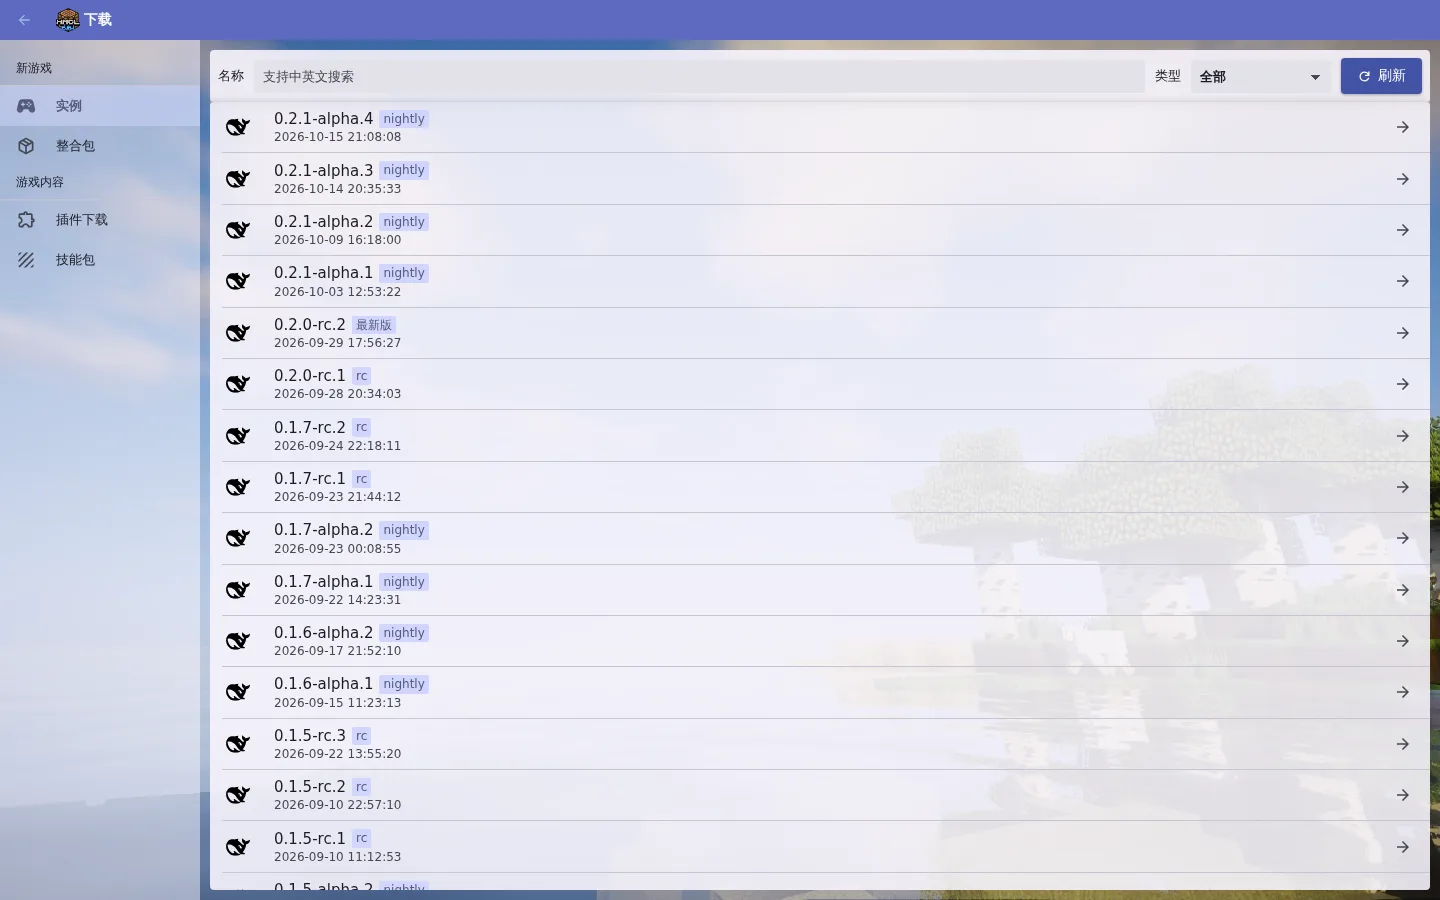
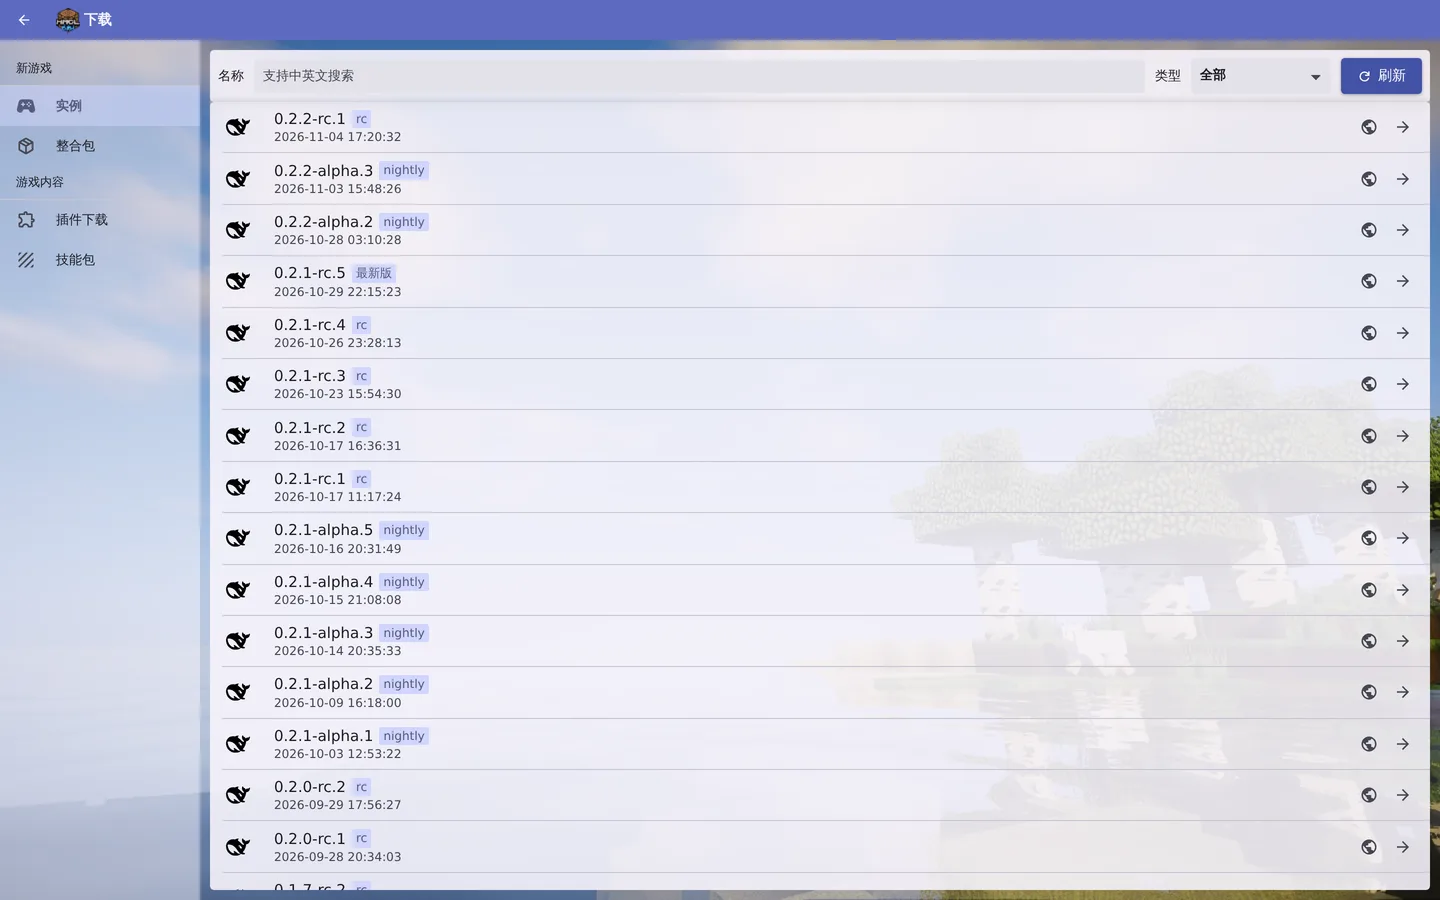
docs(readme): 重排结构与截图
- 顶部改为 定位 → 主图 → 目录 → 亮点；「一些细节」拆成「截图」与「功能速览」表格。
- 截图换成 v0.6.64 的当前界面（8 张），新增 Node.js 运行时与 Minecraft 入口；
  演示数据集为 5 个停止态实例，无真实账号/供应商。
- 目录与正文标题顺序对齐。

diff --git a/README.md b/README.md
@@ -7,15 +7,36 @@
 [![license](https://img.shields.io/badge/license-GPL--3.0-blue)](LICENSE)
 [![platform](https://img.shields.io/badge/platform-Docker%20%7C%20Linux%20%7C%20macOS%20%7C%20Windows-lightgrey)]()
 
-把 [HDSL](https://github.com/MCXCC303/HDSL)（Hello DeepSeek! Launcher，桌面版）搬进浏览器的单容器版本：
-打开网页 → 登录 → 建实例 → 点「启动」→ 在同一域名、端口与证书下用它自己的网页界面。除了 dsh，
-还能把 Kimi Code、OpenCode、Claude Web、ZCode 一起装进来，并且给每个实例配一个**原地终端**。
-界面按桌面版复刻（HMCL 视觉语言、Material You 主题、同款图标与动画），实例/版本/插件/账户/整合包/
-会话/技能/体检/ACP 控制台都在。
+把 [HDSL](https://github.com/MCXCC303/HDSL)（Hello DeepSeek! Launcher，桌面版）搬进浏览器的单容器版本。
+
+打开网页 → 登录 → 建实例 → 点「启动」，在同一个域名、端口与证书下用 agent 自己的界面。除 dsh 外，
+Kimi Code、OpenCode、Claude Web、Octop、Hermes、ZCode 也能一起装；每个实例都配一个**原地终端**。
+
+界面按桌面版复刻（HMCL 视觉语言、Material You 主题、同款图标与动画）：实例、版本、插件、账户、
+整合包、会话、技能、体检与 ACP 控制台都在。
 
 ![主界面](docs/screenshots/02-main.webp)
 
-## 现在能做什么
+## 目录
+
+- [亮点](#亮点)
+- [截图](#截图)
+- [功能速览](#功能速览)
+- [架构](#架构)
+- [实例终端（Web Shell）](#实例终端web-shell)
+- [快速开始](#快速开始) — Release / Docker Compose / 裸 `java -jar`
+- [首次登录与初始化引导](#首次登录与初始化引导)
+- [数据与挂载点](#数据与挂载点)
+- [声明式 HTTPS](#声明式-https)
+- [环境变量](#环境变量)
+- [反向代理](#反向代理)
+- [安全说明](#安全说明)
+- [构建与开发](#构建与开发)
+- [常见问题](#常见问题)
+- [设计说明](docs/design-notes.md)
+- [许可](#许可)
+
+## 亮点
 
 ### 六种 Agent，一个面板，想换就换
 
@@ -43,61 +64,36 @@
 - **两层钥匙**：面板密码 + 开发者密码第二因子；Web Shell 只在 HTTPS 下开，也能整体关掉。
 - **备份只有一个目录**：配置、证书、账号、实例、`DSH_HOME`、pnpm store 全在 `/data` 下，拷走那一个卷就搬完了（工作区可以另挂宿主机目录）。
 
-### 一些细节
+## 截图
 
-- 交付：一个可执行 fat jar（`java -jar hdsl-web.jar`）和一个 Debian 容器镜像。
-- 运行前提：JDK 17+；Node `^22.19.0 || >=24.0.0` 与 pnpm（dsh 由 pnpm 安装、由 node 运行）。
-- 手机可用：窄屏（≤760px）或矮屏（≤520px）自动切换移动版式——主导航收成抽屉、内页子侧栏变顶部横向标签条、启动面板变成贴底整条操作栏；可点区域按触摸标准放大到 44px，支持「加到主屏幕」。桌面上版式不变。规则见 [docs/ui-spec.md §14](docs/ui-spec.md)。
-- 账户：为某个模型供应商填一次 API Key。供应商与模型名来自 [models.dev](https://models.dev) 目录（200+ 家，选中供应商即带出端点、协议与密钥环境变量提示），默认模型可搜索也可手输；目录拉不到时退回纯手输。规则见 [docs/ui-spec.md §4](docs/ui-spec.md)。
-- 创建实例即开始安装；未安装的实例点「启动」会先装再启。进度与失败原因都在面板上。细节见 [docs/launcher-orchestration.md](docs/launcher-orchestration.md)。
-- 品牌实例的安装、版本共享与实验性边界见 [docs/brands.md](docs/brands.md)；Octop 的便携包 /
-本地源码编译与挂载点补丁见 [docs/octop.md](docs/octop.md)；ZCode 的构建与限制见
-[docs/zcode-experimental.md](docs/zcode-experimental.md)；终端的前提、安全模型与开关见
-[实例终端（Web Shell）](#实例终端web-shell)。**安全相关的威胁模型、误配自查与免责统一在
-[docs/security.md](docs/security.md)。**
-- Minecraft 服务端（默认关闭，第三方功能）：开关在「设置 → 品牌实例」，要在开发者密码下
-  读完 Mojang EULA 与服务条款才能打开；服务端程序不随本项目分发，由 Mojang 官方下载。
-  **存档放在 `/home/hdsl/mc`，容器部署必须把这个路径挂出来**（见[数据与挂载点](#数据与挂载点)）。
-  Windows 裸部署走 headless 控制台（日志 + 命令输入，没有 PTY）；Java 默认复用面板自己的
-  运行时，所选版本需要更高版本时请自备并配置 `mc.java_path`。设置页会显示实际服务器目录
-  与 Java 来源。完整的功能介绍、操作要求与边界见 [docs/minecraft.md](docs/minecraft.md)。
-- 下载源：设置页可选择预设镜像（npmmirror / 中科大 / 腾讯云 / 华为云 / 官方）或手填 URL。保存后立即生效，无需重启。环境变量 `NPM_CONFIG_REGISTRY` 仅作为回退值。细节见 [docs/deployment.md](docs/deployment.md)。
-- 想**从空目录**把整个项目交给另一个模型重写？[docs/build-from-scratch-prompt.md](docs/build-from-scratch-prompt.md) 是一份完整任务提示词：硬约束、功能清单、对外契约、构建与验证命令，以及这一路踩过的坑。
-  **只在清空/新建仓库时用**——在现有仓库里接手请读交接稿，别按它重建。
-
-<details>
-<summary>更多截图（初始化引导 / 实例列表 / 品牌实例 / 下载 / 设置）</summary>
-
-| 初始化引导（首启建号） | 实例列表 |
+| | |
 |---|---|
-| ![初始化](docs/screenshots/01-setup.webp) | ![实例列表](docs/screenshots/03-instances.webp) |
-
-| 品牌实例（实例列表页内原地切换） |
-|---|
-| ![品牌实例](docs/screenshots/06-brands.webp) |
-
-| 下载（真实 npm 版本列表） | 设置 |
-|---|---|
+| ![主界面](docs/screenshots/02-main.webp) | ![实例列表](docs/screenshots/03-instances.webp) |
+| 主界面与启动面板 | 实例列表（DSH / 品牌两层） |
 | ![下载](docs/screenshots/04-download.webp) | ![设置](docs/screenshots/05-settings.webp) |
+| 下载（真实 npm 版本列表） | 设置（通用） |
+| ![品牌实例](docs/screenshots/06-brands.webp) | ![Node.js](docs/screenshots/07-node.webp) |
+| 品牌实例（6 个品牌，原地切换） | Node.js 运行时（18–26 按大版本） |
+| ![Minecraft](docs/screenshots/08-mc.webp) | ![初始化](docs/screenshots/01-setup.webp) |
+| Minecraft 服务端（默认关闭） | 首启初始化（建管理员账号） |
 
-</details>
+> 截图来自一份演示数据集：5 个停止态的 dsh 实例，没有真实账号、供应商、路径或口令。
+> 重新生成的做法见 [docs/screenshots/README.md](docs/screenshots/README.md)。
 
-## 目录
+## 功能速览
 
-- [现在能做什么](#现在能做什么)
-- [架构](#架构)
-- [实例终端（Web Shell）](#实例终端web-shell)
-- [快速开始](#快速开始)（Release 下载 / Docker Compose / 裸 `java -jar`）
-- [首次登录与初始化引导](#首次登录与初始化引导)
-- [数据与挂载点](#数据与挂载点)
-- [声明式 HTTPS](#声明式-https)
-- [环境变量](#环境变量)
-- [反向代理](#反向代理)
-- [安全说明](#安全说明)
-- [构建与开发](#构建与开发)
-- [常见问题](#常见问题)
-- [设计说明](docs/design-notes.md)
-- [许可](#许可)
+| 项目 | 说明 |
+|---|---|
+| 交付 | 一个可执行 fat jar（`java -jar hdsl-web.jar`）和一个 Debian 容器镜像 |
+| 运行前提 | JDK 17+；Node `^22.19.0 || >=24.0.0` 与 pnpm（dsh 由 pnpm 安装、由 node 运行） |
+| 手机 | 窄屏（≤760px）或矮屏（≤520px）自动切换移动版式：主导航收成抽屉、子侧栏变顶部标签条、启动面板变成贴底操作栏；可点区域 44px；支持「加到主屏幕」。见 [docs/ui-spec.md §14](docs/ui-spec.md) |
+| 账户 | 为供应商填一次 API Key；供应商与模型来自 [models.dev](https://models.dev)（200+ 家，选中即带出端点、协议与密钥变量），也可手输；目录不可达时退回内置供应商与手输。见 [docs/ui-spec.md §4](docs/ui-spec.md) |
+| 创建实例 | 创建即安装；未安装的实例点「启动」会先装再启；进度与失败原因都在面板上。见 [docs/launcher-orchestration.md](docs/launcher-orchestration.md) |
+| 品牌实例 | 安装、版本共享与实验性边界见 [docs/brands.md](docs/brands.md)；Octop 见 [docs/octop.md](docs/octop.md)；ZCode 见 [docs/zcode-experimental.md](docs/zcode-experimental.md) |
+| Minecraft | 默认关闭的第三方功能；开关在「设置 → 品牌实例」，需开发者密码并阅读 Mojang EULA 与服务条款。存档在 `/home/hdsl/mc`，容器部署必须挂出来。见 [docs/minecraft.md](docs/minecraft.md) |
+| 下载源 | 设置页可选预设镜像（npmmirror / 中科大 / 腾讯云 / 华为云 / 官方）或手填 URL；保存即生效。见 [docs/deployment.md](docs/deployment.md) |
+| 安全 | 威胁模型、误配自查与免责统一在 [docs/security.md](docs/security.md) |
+| 从零重建 | [docs/build-from-scratch-prompt.md](docs/build-from-scratch-prompt.md) 是一份完整任务提示词，**只在新仓库用** |
 
 ## 架构
 

diff --git a/docs/screenshots/README.md b/docs/screenshots/README.md
@@ -1,32 +1,36 @@
 # docs/screenshots —— README 用的界面截图
 
 README 里的截图直接引用本目录（仓库内相对路径，由 GitHub 自己的 CDN 提供），
-不再走任何图床——图床慢的时候整页都在等它，而仓库里的图跟着仓库走。
+不走任何图床——图床慢的时候整页都在等它，而仓库里的图跟着仓库走。
 
 | 文件 | 拍的是什么 |
 | --- | --- |
 | `01-setup.webp` | 首启初始化（建管理员账号） |
 | `02-main.webp` | 主界面 + 右下启动面板 |
-| `03-instances.webp` | 实例列表页（左：dsh 实例 / 品牌实例两层） |
-| `04-download.webp` | 下载页 |
+| `03-instances.webp` | 实例列表页（DSH / 品牌两层） |
+| `04-download.webp` | 下载页（真实 npm 版本列表） |
 | `05-settings.webp` | 设置页（通用） |
-| `06-brands.webp` | 品牌实例层：品牌页签行 + 版本卡 + 实例卡（原地切换出来的那一层） |
+| `06-brands.webp` | 品牌实例层：6 个品牌页签 + 版本卡 + 实例卡 |
+| `07-node.webp` | Node.js 运行时：18–26 按大版本通道 |
+| `08-mc.webp` | Minecraft 服务端（默认关闭时的入口说明） |
 
 ## 规格与重新生成
 
-- 视口 **1440×900**（`02-main` 原本是 1920×1080，已统一到 1440 宽）。
-- 转成 **WebP，`-quality 82`，`-strip`**：六张合计约 **330 KB**（PNG 原图约 4 MB）。
-  截图里全是 UI 文字，82 已经看不出差别；要更清晰就提到 88~90，代价是体积翻倍。
+- 视口 **1440×900**；截图按 `deviceScaleFactor 2` 抓、再缩到 1440，文字仍然清晰。
+- 转成 **WebP，`-quality 82`，`-strip`**：八张合计约 **450 KB**。
 - 重新生成：
 
 ```bash
-# 截图（面板跑起来、页面上有数据的状态），然后：
-magick shot.png -strip -quality 82 docs/screenshots/03-instances.webp
+# 面板跑起来、页面上有演示数据，然后用 Playwright 登录并逐页截图：
+#   viewport 1440x900, deviceScaleFactor 2, ignore_https_errors
+# 再转：
+magick shot.png -resize 1440x900 -quality 82 -strip docs/screenshots/03-instances.webp
 ```
 
-- 2026-10-16 这一批是在**一份演示数据集**上拍的：9 个 dsh 实例（名字是中性的
-  `web-agent` / `docs-bot` / `research` / …）+ 1 个 kimi + 1 个 zcode 实例，
-  管理员账号为 `admin`，**没有真实账号/供应商/路径/口令**。
+- 2026-11-05 这一批是在**一份演示数据集**上拍的：5 个停止态的 dsh 实例
+  （`reference` / `canary` / `staging` / `playground` / `research`，版本 `0.2.1-rc.5`），
+  管理员账号为 `admin`，**没有真实账号、供应商、路径或口令**。实例树是伪造的“已安装”
+  结构，只为截图，不能启动。
 
 > 换图前务必确认页面上没有不该公开的东西（内网域名、口令、真实账号名、实例 URL 里的
 > `?token=`）——这是截图最容易漏的一步。实例运行中时列表与浮层都会带上 token，
